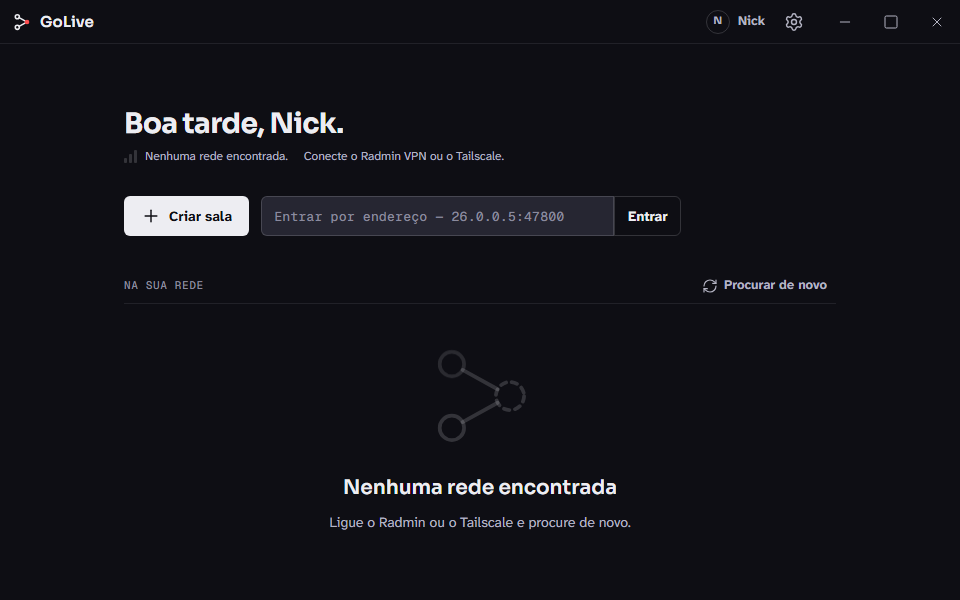
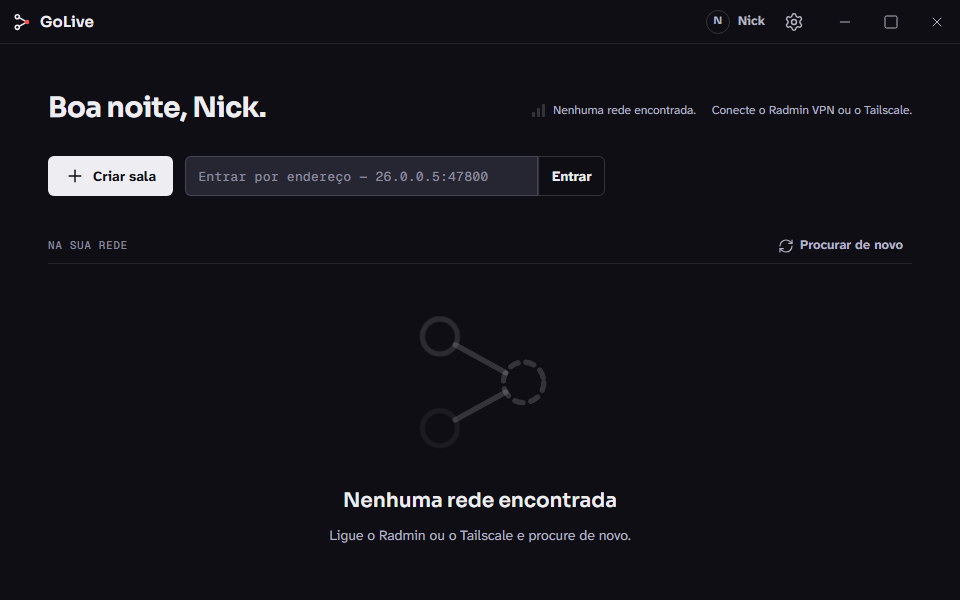
feat(redesign): Inicio ocupa a janela em vez de uma coluna centrada
Pedido do Nicolas: tudo posicionado no meio. A composicao ancora a esquerda, com saudacao e
rede em lados opostos, lista de salas de ponta a ponta e rodape no pe da janela.

diff --git a/src/renderer/sinal/shell.css b/src/renderer/sinal/shell.css
@@ -786,3 +786,33 @@ body.room-idle .pip-add-btn, .tile.idle .pip-add-btn { opacity: 0; }
   font: var(--t-meta); color: var(--tx3); }
 .compose:not(:focus-within) #chat-input-hint { visibility: hidden; }
 .compose__meta .tx-data:not(.hidden) { color: var(--tx2); }
+
+/* ============ Inicio ocupando a janela (retorno do Nicolas, 2026-09-27) ============
+ * Nada centralizado numa coluna estreita: a composicao ancora a esquerda e
+ * usa a largura -- abertura com saudacao e rede em lados opostos, acoes,
+ * lista de salas de ponta a ponta, rodape no pe da janela. */
+.lobby__col {
+  display: flex;
+  flex-direction: column;
+  gap: var(--s-6);
+  max-width: none;
+  min-height: 100%;
+  margin: 0;
+  padding: var(--s-7) clamp(var(--s-5), 5vw, 72px) var(--s-5);
+}
+.hello {
+  display: flex;
+  flex-wrap: wrap;
+  align-items: flex-end;
+  justify-content: space-between;
+  gap: var(--s-3) var(--s-6);
+}
+.hello > .hello__title, .hello > .whoami { flex: 1 1 420px; }
+.hello__net { flex: none; padding-bottom: var(--s-15); }
+.lobby__actions .combo { flex: 0 1 460px; }
+.rooms { flex: 1; display: flex; flex-direction: column; }
+.rooms__list { flex: 1; align-content: start; }
+.rooms__list:has(.blank) { display: grid; place-items: center; }
+.rooms .blank__art { width: clamp(120px, 18vw, 200px); height: auto; aspect-ratio: 1; }
+.room-row { grid-template-columns: 96px minmax(0, 1fr) auto auto; padding-inline: var(--s-4); }
+.lobby__foot { padding-top: var(--s-3); border-top: 1px solid var(--line); }

diff --git a/docs/redesign-greenfield/05-arquitetura.md b/docs/redesign-greenfield/05-arquitetura.md
@@ -58,7 +58,10 @@ Janelas auxiliares: Splash · Espiar · Overlay (rabisco no monitor físico)
 └─────────────────────────────────────────────────────────────────────────────┘
 ```
 
-- Coluna única centrada (máx. 760 px), alinhada à esquerda dentro dela. A saudação usa `--t-display`.
+- Composição ancorada à esquerda que ocupa a janela (revisto em 2026-09-27 a pedido do Nicolas: a coluna
+  centrada de 760 px deixava tudo "no meio" e desperdiçava a largura). Abertura com a saudação à esquerda e a rede
+  alinhada à direita; ações logo abaixo; lista de salas de ponta a ponta; rodapé com a versão no pé da janela; sem
+  salas, o grafo do ícone ocupa o espaço que sobra. A saudação usa `--t-display`.
 - **Sem apelido**: no lugar da saudação, "Como seus amigos vão te ver?" com campo de nome e o nó de avatar
   (clique troca a foto). Salvar é imediato ao sair do campo/Enter. Não bloqueia nada.
 - **Criar sala** abre o diálogo (seção 7.2). **Endereço**: campo `host:porta` com `Entrar`; Enter envia;
